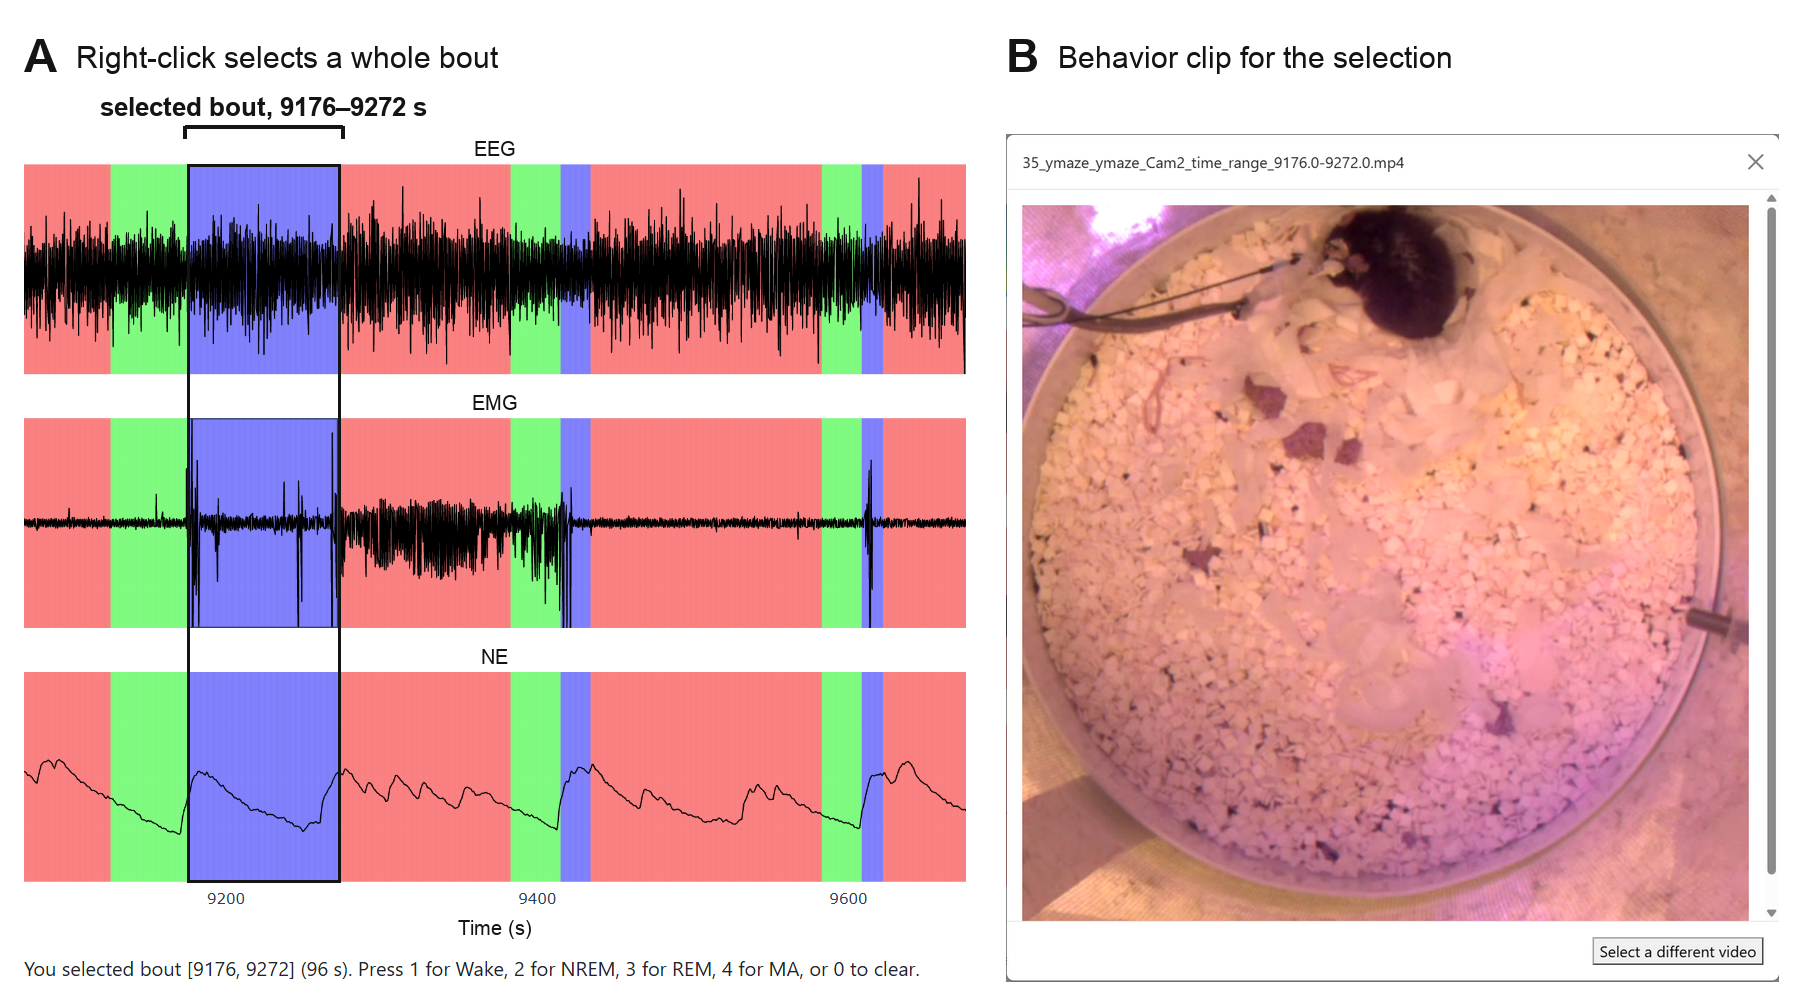
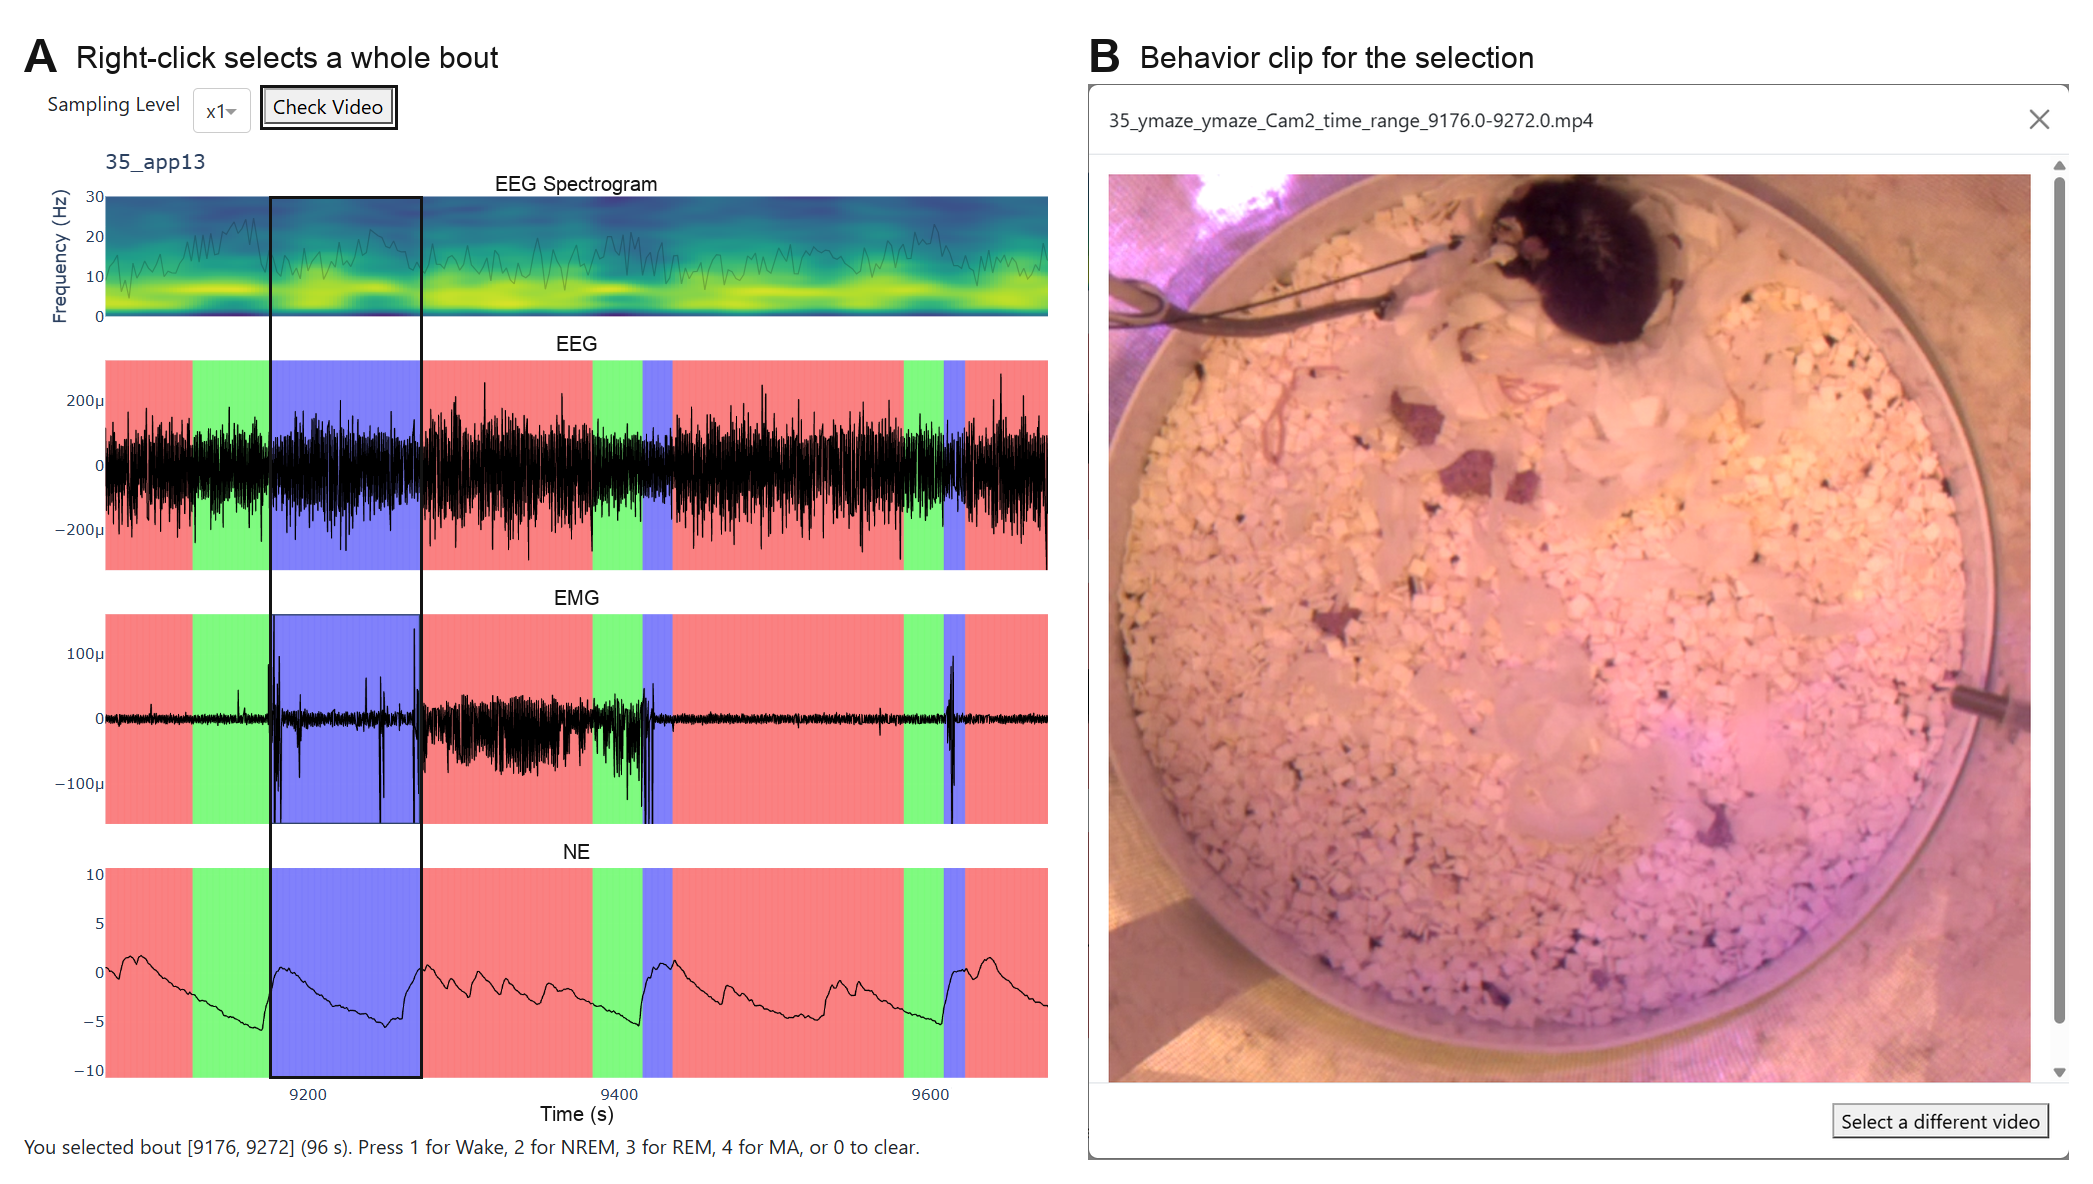
Show the full app view, with Check Video, in Figure 2A
Panel A now matches Figure 1's view: the controls row with the Check
Video button, the spectrogram, and the signal rows, cut at 9675 s so it
stays legible beside the video dialog.

diff --git a/paper/figures/build_figures.py b/paper/figures/build_figures.py
@@ -19,8 +19,7 @@ HERE = Path(__file__).resolve().parent
 TIME_ANCHOR_S, TIME_ANCHOR_X = 9200.0, 299.0
 PX_PER_S = (610.5 - TIME_ANCHOR_X) / 200.0
 ROW_SHIFT = {"before": 0, "after": -2, "selected": 1}
-PLOT_TOP, PLOT_BOTTOM = 316, 1034
-ZOOM_TOP, ZOOM_BOTTOM = 286, 1070
+PLOT_BOTTOM = 1034
 WHITE = (255, 255, 255)
 INK = (20, 20, 20)
 GAP = 40
@@ -36,7 +35,13 @@ SPEC_TITLE_TOP, SPEC_TOP = 131, 152  # "EEG Spectrogram" title, plot top
 CBAR_TICKS_BOX = (1250, 131, 1560, 142)  # colour-bar ticks beside the title
 TICKS_BOTTOM = 1060
 STACK_GAP = 16
-VIDEO_START_S, VIDEO_END_S = 9070.0, 9675.0
+# Figure 2A keeps the controls row and spectrogram but ends at this time, so
+# the selected bout and Check Video button stay large next to the dialog.
+CONTROLS_TOP = 40
+FIG2_END_S = 9675.0
+CHECK_VIDEO_BOX = (256, 46, 383, 80)
+# Subplot title bands; cropping the time axis off-centres the app's titles.
+TITLE_BANDS = [("EEG Spectrogram", 129, 151), ("EEG", 286, 315), ("EMG", 540, 569), ("NE", 794, 823)]
 LABEL_START_S, LABEL_END_S = 9752.0, 9802.0
 SELECT_START_S, SELECT_END_S = 9176.0, 9272.0
 
@@ -71,22 +76,6 @@ def axis_title(width, center):
     strip = Image.new("RGB", (width, 30), WHITE)
     ImageDraw.Draw(strip).text((center, 2), "Time (s)", anchor="mt", fill=INK, font=font(20))
     return strip
-
-
-def zoom_crop(img, layout, start, width):
-    shift = ROW_SHIFT[layout]
-    x0 = x_of(start)
-    crop = img.crop((x0, ZOOM_TOP + shift, x0 + width, ZOOM_BOTTOM + shift))
-    draw = ImageDraw.Draw(crop)
-    # Re-centre subplot titles in the crops; the overview keeps the original
-    # titles and full stage legend. Only inter-plot whitespace is replaced.
-    for title, y0, y1 in [("EEG", 286, 315), ("EMG", 540, 569), ("NE", 794, 823)]:
-        draw.rectangle((0, y0 - ZOOM_TOP, crop.width, y1 - ZOOM_TOP), fill=WHITE)
-        draw.text((crop.width / 2, y0 - ZOOM_TOP + 7), title, anchor="mt", fill=INK, font=font(20))
-    # Keep the screenshot's tick values and place a common axis title below.
-    l, t, r, b = AXIS_TITLE_BOX
-    draw.rectangle((l - x0, t - ZOOM_TOP, r - x0, b - ZOOM_TOP), fill=WHITE)
-    return stack(crop, axis_title(crop.width, crop.width / 2))
 
 
 def text_segments(strip, gap=14):
@@ -160,13 +149,6 @@ def bracket(draw, x0, x1, y, label, color=INK, above=True):
     draw.text((tx, y - 34), label, fill=color, font=f)
 
 
-def outline_rows(draw, x0, x1, head):
-    """Outline an interval across the EEG, EMG, and NE plots of a zoom panel."""
-    draw.rectangle(
-        (x0, head + PLOT_TOP - ZOOM_TOP, x1, head + PLOT_BOTTOM - ZOOM_TOP), outline=INK, width=3
-    )
-
-
 def full_view(img, layout, top, bottom, blank=()):
     """Crop the full viewport from top to bottom, whitening boxes (source coordinates)."""
     shift = ROW_SHIFT[layout]
@@ -221,25 +203,42 @@ def figure2():
     selected = load("app_figure_right_click_select.png")
     video = load("app_figure_video.png")
 
-    zoom = zoom_crop(
-        selected, "selected", VIDEO_START_S, x_of(VIDEO_END_S) - x_of(VIDEO_START_S)
-    )
-    msg = wrap_strip(selected.crop((25, 1117, 1930, 1143)), zoom.width)
-    body = stack(zoom, msg, gap=8)
-    panel_a, head_a = with_header(body, "A", "Right-click selects a whole bout", extra=50)
+    # A: the window from the controls row through the time axis, cut at
+    # FIG2_END_S, with subplot titles and the axis title recentred on the
+    # remaining plot area.
+    right = x_of(FIG2_END_S)
+    view = full_view(selected, "selected", CONTROLS_TOP, TICKS_BOTTOM, [AXIS_TITLE_BOX])
+    view = view.crop((0, 0, right - PANEL_LEFT, view.height))
+    center = (PLOT_LEFT + right) / 2 - PANEL_LEFT
+    draw = ImageDraw.Draw(view)
+    for title, y0, y1 in TITLE_BANDS:
+        top, bottom = y0 - CONTROLS_TOP, y1 - CONTROLS_TOP
+        draw.rectangle((PLOT_LEFT - PANEL_LEFT, top, view.width, bottom), fill=WHITE)
+        draw.text((center, top + (bottom - top) / 2), title, anchor="mm", fill=INK, font=font(20))
+    msg = wrap_strip(selected.crop((25, 1117, 1930, 1143)), view.width)
+    body = stack(view, axis_title(view.width, center), msg, gap=0)
 
-    da = ImageDraw.Draw(panel_a)
-    x0 = x_of(SELECT_START_S) - x_of(VIDEO_START_S)
-    x1 = x_of(SELECT_END_S) - x_of(VIDEO_START_S)
-    bracket(da, x0 - 4, x1 + 4, head_a - 8, "selected bout, 9176–9272 s")
-    outline_rows(da, x0 - 2, x1 + 2, head_a)
+    # Callouts: the selected bout and the button that opens its clip.
+    x0 = x_of(SELECT_START_S) - PANEL_LEFT
+    x1 = x_of(SELECT_END_S) - PANEL_LEFT
+    draw = ImageDraw.Draw(body)
+    draw.rectangle(
+        (x0 - 2, SPEC_TOP - CONTROLS_TOP, x1 + 2, PLOT_BOTTOM - CONTROLS_TOP), outline=INK, width=3
+    )
+    l, t, r, b = CHECK_VIDEO_BOX
+    draw.rectangle(
+        (l - PANEL_LEFT - 5, t - CONTROLS_TOP - 5, r - PANEL_LEFT + 5, b - CONTROLS_TOP + 5),
+        outline=INK,
+        width=3,
+    )
+    panel_a, _ = with_header(body, "A", "Right-click selects a whole bout")
 
     # Scale the dialog (aspect ratio kept) so both panels have equal height.
     dialog = video.crop((481, 73, 1480, 1169))
     dialog = dialog.resize(
         (round(dialog.width * body.height / dialog.height), body.height), Image.LANCZOS
     )
-    panel_b, _ = with_header(dialog, "B", "Behavior clip for the selection", extra=50)
+    panel_b, _ = with_header(dialog, "B", "Behavior clip for the selection")
 
     return pad(side_by_side(panel_a, panel_b))
 

diff --git a/paper/figures/README.md b/paper/figures/README.md
@@ -24,15 +24,15 @@ python paper/figures/build_figures.py
 | Output | Contents |
 | --- | --- |
 | [`figure1_adaptation.png`](figure1_adaptation.png) | Three full views of the same viewport stacked on one time axis: prediction (A), expert label (B), and after calibration (C). All include the spectrogram; tick labels appear only under C. C outlines the labeled interval; readers compare stages down the shared axis. |
-| [`figure2_video_review.png`](figure2_video_review.png) | A 9070–9675 s crop with the right-clicked bout outlined (A) and the video dialog (B), scaled with its aspect ratio kept so both panels have equal height. |
+| [`figure2_video_review.png`](figure2_video_review.png) | The right-click view from the controls row (Check Video outlined) through the time axis, cut at 9675 s, with the selected bout outlined (A), beside the video dialog (B) scaled with its aspect ratio kept to equal height. |
 
 The 1980-by-1202-pixel sources share the same horizontal axis; crops align
 to the 9200/9400 s tick centres (about 1.56 px/s). The post-calibration image
 is two pixels higher and the selection image one pixel lower. Figure 1
 keeps the recording name and colour bar on A only, drops Plotly's hover
 toolbar, and moves the axis title below C's ticks, which it overlapped.
-Figure 2A's zoomed crop retains the original tick values and signal pixels,
-recenters subplot titles, and adds a time-axis title.
+Figure 2A keeps the original tick values and signal pixels, recenters the
+subplot titles on the cropped plot area, and adds a time-axis title.
 Figure 2A's selection message is wrapped at word gaps; Figure 1C omits the
 calibration message, whose totals the caption states. The cached label layer confirms
 the 228-second total, including the earlier Wake interval [2873, 3051) and

diff --git a/treaty_docs/work_log.md b/treaty_docs/work_log.md
@@ -44,6 +44,10 @@ search older entries by date anchor rather than reading every archive.
   has no page limit, but a figure plus caption must fit one page (~8.3 in of
   figure at 5.4 in wide); ticks only under C, name and colour bar only on A,
   16 px gaps, giving 1973 x 3065 px.
+- Figure 2A now shows the same full view as Figure 1 (controls row with
+  Check Video, spectrogram, EEG, EMG, NE), cut at 9675 s so it stays large
+  beside the dialog. The bout and Check Video are outlined; subplot titles
+  are recentred on the cropped plot area. Caption names Check Video.
 
 ### Integration delivery and refreshed PDF verified (Codex, GPT-6; effort/token budget not reported)
 

diff --git a/paper/paper.md b/paper/paper.md
@@ -216,8 +216,8 @@ statistics, including microarousals. Packaged Windows installations receive
 compatible updates that preserve supported settings.
 
 ![**Selection-linked behavioral review.** **(A)** A right-click selects the
-contiguous bout at 9176–9272\ s. **(B)** The corresponding 96-second behavior
-clip is opened in the application for review alongside the physiological
+contiguous bout at 9176–9272\ s, and Check Video (both outlined) opens its
+clip. **(B)** The corresponding 96-second behavior clip, opened in the application for review alongside the physiological
 signals.\label{fig:video}](figures/figure2_video_review.png)
 
 # Research impact statement
